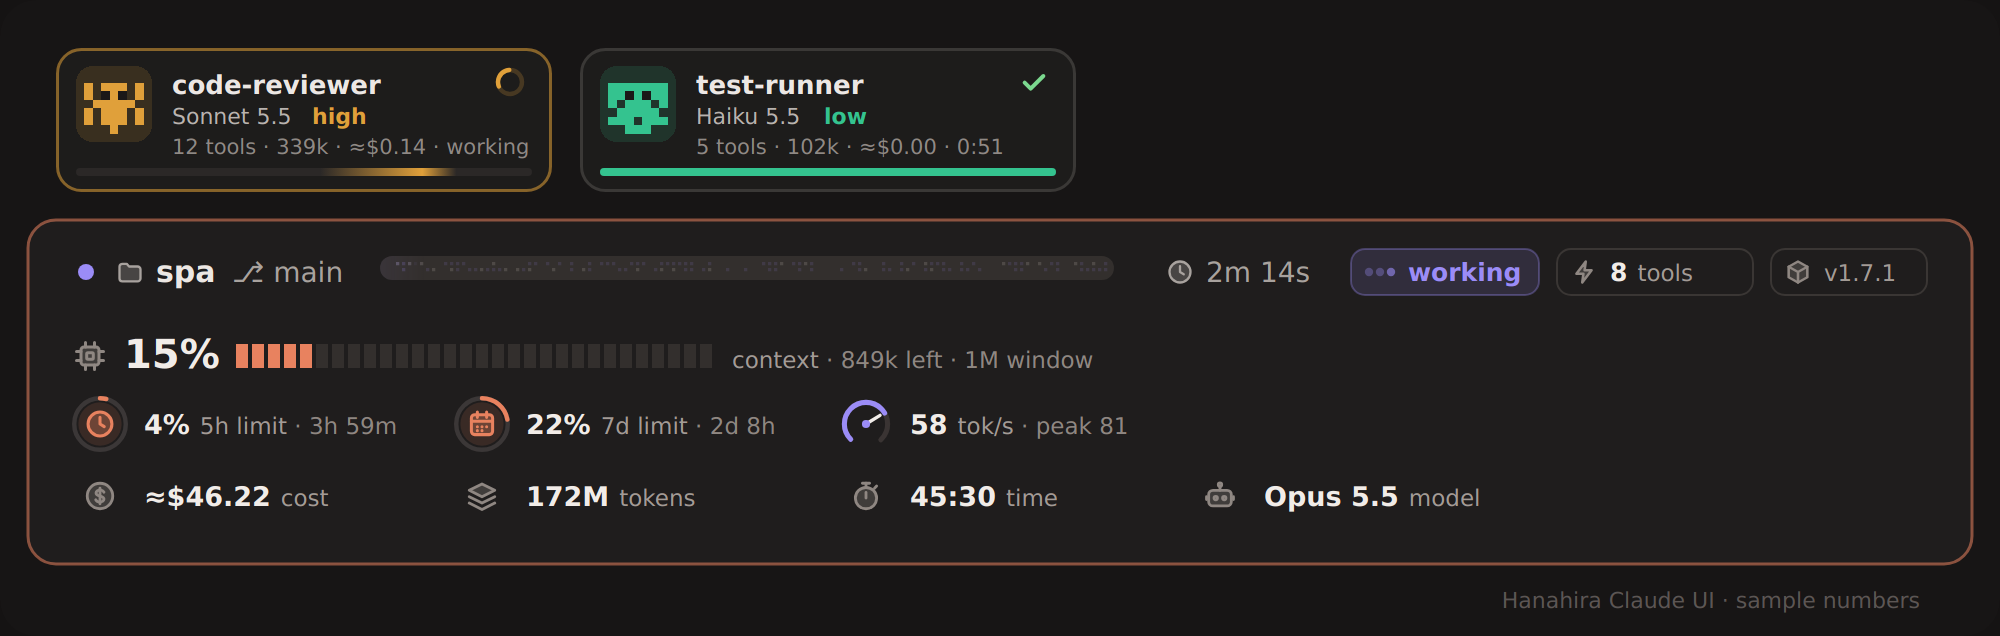
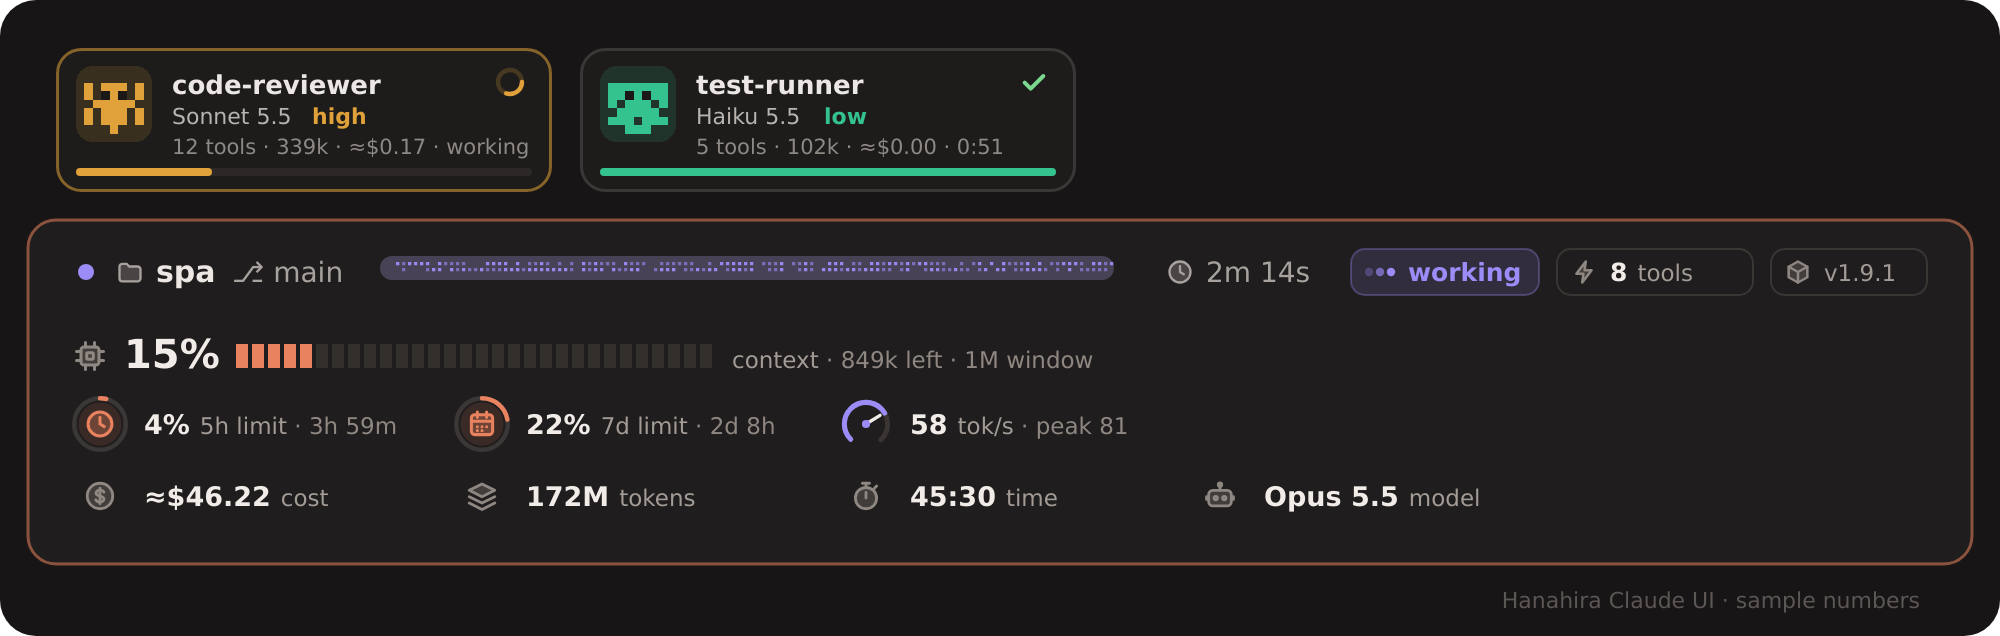
v1.9.1: fixes from a second full UI test pass
Every fix has a regression test that fails on v1.9.0 and passes now.

- README preview: docs/preview.png still showed v1.7.1. scripts/preview.ts
  now draws the PNG too, with a headless Chromium (PREVIEW_CHROME, else
  Playwright's, else one on the PATH), and writes docs/preview.png.sha256
  for the SVG it was drawn from. scripts/preview.test.ts fails while the
  PNG shows an older band or the SVG an older version.
- Transcript: a Bash description that opens with the row's verb no longer
  says it twice ("Run Run the test suite" -> "Run the test suite"); a
  delete drops a leading Delete/Remove. Only a whole word: "Runtime check"
  stays.
- Band: the session's token total adds a response through addUsage, which
  counts a missing, null or NaN usage field as 0, so one such response no
  longer turns the Tokens figure into NaN for the rest of the session.
  Agent cards use the same helper.
- Figures: fmtCost, fmtClock, fmtTokens, fmtSpeed and usd show a dash for
  NaN or Infinity; fmtReset against an unreadable clock is null; the
  context figure shows a dash and the speedometer draws empty; an agent
  card's time shows a dash. fmtDuration keeps NaN as 0s and reads a
  negative duration as 0.0 s.

diff --git a/hooks/chat.ts b/hooks/chat.ts
@@ -78,6 +78,11 @@ const short = (tool: string) => tool.replace(/^mcp__.*__/, '')
 
 type Input = Record<string, unknown>
 const str = (v: unknown) => (typeof v === 'string' ? v : '')
+/** A description that opens with the row's own verb drops it: `Run` + `Run the tests` would say it twice. */
+const unsaid = (text: string, verbs: RegExp) => {
+  const rest = text.replace(verbs, '')
+  return rest && rest !== text ? rest : text
+}
 
 /** What a tool row says: a coloured verb and the thing it acted on. */
 export const describe = (tool: string, raw: unknown, isRerun = false) => {
@@ -91,12 +96,12 @@ export const describe = (tool: string, raw: unknown, isRerun = false) => {
         return {
           kind: 'delete' as Kind,
           verb: 'Delete',
-          target: clip(str(i.description) || deleted(str(i.command)), 64),
+          target: clip(unsaid(str(i.description), /^(?:delete|remove)\s+/i) || deleted(str(i.command)), 64),
         }
       return {
         kind: 'run' as Kind,
         verb: isRerun ? 'Rerun' : 'Run',
-        target: clip(str(i.description) || str(i.command).replace(/\s+/g, ' '), 64),
+        target: clip(unsaid(str(i.description), /^(?:re)?run\s+/i) || str(i.command).replace(/\s+/g, ' '), 64),
       }
     case 'Read':
       return { kind: 'read' as Kind, verb: 'Read', target: base(path) }
@@ -188,7 +193,7 @@ export const fmtElapsed = (totalSecs: number) => {
 
 /** Tenths of a second under a minute; compared after rounding so 59.96 s reads 1m 0s, not 60.0 s. */
 export const fmtDuration = (ms: number) =>
-  Math.round(ms / 100) < 600 ? `${(ms / 1000).toFixed(1)} s` : fmtElapsed(Math.round(ms / 1000))
+  Math.round(Math.max(0, ms) / 100) < 600 ? `${(Math.max(0, ms) / 1000).toFixed(1)} s` : fmtElapsed(Math.round(ms / 1000))
 
 /**
  * A tool row's kind tile: a rounded square tinted in the kind's colour, its icon in the middle,
@@ -406,10 +411,11 @@ export const halftone = (
 }
 
 /** ≈-free money for a stat card: always two decimals, $15.62. */
-export const fmtCost = (usd: number) => `$${usd.toFixed(2)}`
+export const fmtCost = (usd: number) => (Number.isFinite(usd) ? `$${usd.toFixed(2)}` : '—')
 
 /** 0:18, 12:05, 1:02:03 (hours only when needed). */
 export const fmtClock = (ms: number) => {
+  if (Number.isNaN(ms) || ms === Infinity) return '—'
   const s = Math.max(0, Math.round(ms / 1000))
   const h = Math.floor(s / 3600)
   const m = Math.floor((s % 3600) / 60)
@@ -419,6 +425,7 @@ export const fmtClock = (ms: number) => {
 
 /** Token counts with k / M / B / T: 950, 1.5k, 196k, 1.25M, 3.4B. */
 export const fmtTokens = (n: number) => {
+  if (Number.isNaN(n) || n === Infinity) return '—'
   const units = ['', 'k', 'M', 'B', 'T']
   const shape = (v: number) => {
     const s = v < 10 ? v.toFixed(2) : v < 100 ? v.toFixed(1) : v.toFixed(0)
@@ -469,7 +476,7 @@ export const speedScale = (peak: number) =>
 
 /** A speedometer as SVG: a 270° track open at the bottom, an arc filled to `fraction`, and a needle. */
 export const speedoSvg = (fraction: number, color: string, size: number) => {
-  const f = Math.max(0, Math.min(1, fraction))
+  const f = Number.isNaN(fraction) ? 0 : Math.max(0, Math.min(1, fraction))
   const r = 17
   const c = 2 * Math.PI * r
   const sweep = 0.75 * c
@@ -492,7 +499,7 @@ export const speedoSvg = (fraction: number, color: string, size: number) => {
 }
 
 /** Speed for a tile: 42, 8.5 (one decimal under 10). */
-export const fmtSpeed = (tps: number) => (tps < 10 ? String(Math.round(tps * 10) / 10) : String(Math.round(tps)))
+export const fmtSpeed = (tps: number) => (!Number.isFinite(tps) ? '—' : tps < 10 ? String(Math.round(tps * 10) / 10) : String(Math.round(tps)))
 
 /** Rough width of a label in px at a given font size: symbols run wide, capitals a little wider. */
 const labelWidth = (text: string, fs: number) =>
@@ -678,7 +685,7 @@ export const contextSvg = (
   const esc = (s: string) => s.replace(/&/g, '&amp;').replace(/</g, '&lt;').replace(/>/g, '&gt;')
   const C = CONTEXT
   const meter = meterSvg(percent, color)
-  const value = percent === null ? '—' : `${Math.round(percent)}%`
+  const value = percent === null || !Number.isFinite(percent) ? '—' : `${Math.round(percent)}%`
   const font = 'font-family="ui-sans-serif,system-ui,sans-serif"'
   const valueX = C.icon + 8
   const valueW = labelWidth(value, C.fs)
@@ -963,6 +970,7 @@ export const fmtReset = (iso: string | undefined, now: number): string | null =>
   const at = Date.parse(iso)
   if (Number.isNaN(at)) return null
   const ms = at - now
+  if (!Number.isFinite(ms)) return null
   if (ms <= 0) return 'resetting now'
   const mins = Math.floor(ms / 60_000)
   if (mins < 1) return 'resets in <1m'

diff --git a/scripts/preview.ts b/scripts/preview.ts
@@ -1,6 +1,13 @@
 // Renders docs/preview.svg / preview.png: the compact status band drawn by the plugin's own SVG
 // builders (chat.ts, agents.ts, icons.ts) with sample numbers. Run: bun scripts/preview.ts
-import { writeFileSync } from 'node:fs'
+// The PNG (what the READMEs show) is drawn from the SVG by a headless Chromium: PREVIEW_CHROME,
+// else Playwright's, else one on the PATH. docs/preview.png.sha256 names the SVG it was drawn
+// from, so scripts/preview.test.ts fails while the PNG shows an older band.
+import { createHash } from 'node:crypto'
+import { existsSync, readdirSync, writeFileSync } from 'node:fs'
+import { homedir } from 'node:os'
+import { join } from 'node:path'
+import { fileURLToPath } from 'node:url'
 import { agentCardSvg, CARD_H, CARD_W, prettyModel } from '../hooks/agents'
 import { chipSvg, contextSvg, CONTEXT, dotSvg, fmtClock, fmtElapsed, INK, loadingSvg, speedoSvg, STAT, statSvg } from '../hooks/chat'
 import { iconGroup, iconSvg } from '../hooks/icons'
@@ -82,4 +89,35 @@ const colW = gauges.map((g, i) => Math.max(g.natural, figureArt[i]!.natural))
 })
 parts.push(`<text x="${W - 40}" y="${H - 14}" text-anchor="end" ${font} font-size="11" fill="#5c5654">Hanahira Claude UI · sample numbers</text>`)
 
-writeFileSync(new URL('../docs/preview.svg', import.meta.url), `<svg xmlns="http://www.w3.org/2000/svg" viewBox="0 0 ${W} ${H}" width="${W}" height="${H}">${parts.join('')}</svg>`)
+const svg = `<svg xmlns="http://www.w3.org/2000/svg" viewBox="0 0 ${W} ${H}" width="${W}" height="${H}">${parts.join('')}</svg>`
+const doc = (name: string) => fileURLToPath(new URL(`../docs/${name}`, import.meta.url))
+writeFileSync(doc('preview.svg'), svg)
+
+const chrome = (): string | null => {
+  if (process.env.PREVIEW_CHROME) return process.env.PREVIEW_CHROME
+  const cache = join(homedir(), '.cache', 'ms-playwright')
+  if (existsSync(cache))
+    for (const dir of readdirSync(cache).sort().reverse())
+      for (const bin of ['chrome-linux/headless_shell', 'chrome-linux/chrome'])
+        if (existsSync(join(cache, dir, bin))) return join(cache, dir, bin)
+  for (const name of ['chromium', 'chromium-browser', 'google-chrome', 'google-chrome-stable']) {
+    const found = Bun.which(name)
+    if (found) return found
+  }
+  return null
+}
+const bin = chrome()
+if (!bin) {
+  console.error('No Chromium found (set PREVIEW_CHROME): docs/preview.png was not redrawn and scripts/preview.test.ts will fail.')
+  process.exit(1)
+}
+// Twice the SVG's size, the corners left transparent.
+const shot = Bun.spawnSync([
+  bin, '--headless', '--no-sandbox', '--disable-gpu', '--hide-scrollbars', '--force-device-scale-factor=2',
+  '--default-background-color=00000000', `--window-size=${W},${H}`, `--screenshot=${doc('preview.png')}`, `file://${doc('preview.svg')}`,
+])
+if (shot.exitCode !== 0) {
+  console.error(shot.stderr.toString())
+  process.exit(1)
+}
+writeFileSync(doc('preview.png.sha256'), `${createHash('sha256').update(svg).digest('hex')}\n`)

diff --git a/hooks/register.tsx b/hooks/register.tsx
@@ -66,6 +66,21 @@ const keep = (s: Set<string>, k: string) => {
 }
 
 const NO_TOKENS: Tokens = { input: 0, output: 0, cacheRead: 0, cacheWrite: 0 }
+
+/** The API's usage fields, any of which may be missing (the cache ones are null when unused). */
+type UsageCounts = { input_tokens?: number | null; output_tokens?: number | null; cache_read_input_tokens?: number | null; cache_creation_input_tokens?: number | null }
+/** Counts plus one response's usage. A field the response leaves out adds nothing: one missing
+ *  figure would otherwise make the running total NaN for the rest of the session. */
+export const addUsage = <T extends Partial<Tokens>>(t: T, u: UsageCounts | null | undefined) => {
+  const n = (v: number | null | undefined) => (typeof v === 'number' && Number.isFinite(v) ? v : 0)
+  return {
+    ...t,
+    input: n(t.input) + n(u?.input_tokens),
+    output: n(t.output) + n(u?.output_tokens),
+    cacheRead: n(t.cacheRead) + n(u?.cache_read_input_tokens),
+    cacheWrite: n(t.cacheWrite) + n(u?.cache_creation_input_tokens),
+  }
+}
 const tokens = atom({ plugin: 'hanahira-claude-ui', key: 'tokens' } as const, NO_TOKENS)
 
 const EMPTY: Stats = { tools: 0, byTool: {}, files: [], last: null }
@@ -664,12 +679,7 @@ export const register: Register = on => {
     const effort = typeof sent === 'number' ? `budget ${fmtTokens(sent)}` : sent
     const aid = (e as unknown as { agentId?: string }).agentId
     if (u) {
-      await update($, tokens, t => ({
-        input: (t.input ?? 0) + u.input_tokens,
-        output: (t.output ?? 0) + u.output_tokens,
-        cacheRead: (t.cacheRead ?? 0) + u.cache_read_input_tokens,
-        cacheWrite: (t.cacheWrite ?? 0) + u.cache_creation_input_tokens,
-      }))
+      await update($, tokens, t => addUsage(t, u))
     }
     // Speed of the main thread only: subagents run beside it and would blur the figure.
     const tps = !aid && u ? tokensPerSec(u.output_tokens, (await $.clock.now()) - t0) : null
@@ -682,14 +692,10 @@ export const register: Register = on => {
           a.id !== aid
             ? a
             : {
-                ...a,
+                ...addUsage(a, u),
                 model: u?.model || a.model,
                 // The engine's word wins over what was asked: no effort sent means none applies.
                 effort: effort ?? null,
-                input: a.input + (u?.input_tokens ?? 0),
-                output: a.output + (u?.output_tokens ?? 0),
-                cacheRead: a.cacheRead + (u?.cache_read_input_tokens ?? 0),
-                cacheWrite: a.cacheWrite + (u?.cache_creation_input_tokens ?? 0),
               },
         ),
       )

diff --git a/hooks/chat.test.ts b/hooks/chat.test.ts
@@ -30,6 +30,18 @@ describe('describe', () => {
     expect(describeCall('Bash', { command: 'rm -f -- -weird b' }).target).toBe('-weird b')
   })
 
+  test('a description that opens with the row\'s verb does not say it twice', () => {
+    expect(describeCall('Bash', { command: 'bun test', description: 'Run the test suite' }).target).toBe('the test suite')
+    expect(describeCall('Bash', { command: 'bun test', description: 'run tests' }, true)).toEqual({ kind: 'run', verb: 'Rerun', target: 'tests' })
+    expect(describeCall('Bash', { command: 'bun test', description: 'Rerun the suite' }, true).target).toBe('the suite')
+    expect(describeCall('Bash', { command: 'rm a', description: 'Remove old builds' })).toEqual({ kind: 'delete', verb: 'Delete', target: 'old builds' })
+    expect(describeCall('Bash', { command: 'rm a', description: 'Delete a' }).target).toBe('a')
+    // Only the verb as a word: a description that is the verb alone, or starts with a longer word, stays.
+    expect(describeCall('Bash', { command: 'x', description: 'Run' }).target).toBe('Run')
+    expect(describeCall('Bash', { command: 'x', description: 'Runtime check' }).target).toBe('Runtime check')
+    expect(describeCall('Bash', { command: 'x', description: 'List files' }).target).toBe('List files')
+  })
+
   test('mcp tools fall back to their short name', () => {
     expect(describeCall('mcp__srv__do_thing', {}).target).toBe('do_thing')
   })
@@ -228,6 +240,31 @@ describe('fmtTokens', () => {
   test('zero and negatives', () => {
     expect(fmtTokens(0)).toBe('0')
     expect(fmtTokens(-4)).toBe('0')
+  })
+})
+
+describe('a figure that is no reading', () => {
+  test('shows a dash, never NaN or Infinity', () => {
+    for (const v of [NaN, Infinity]) {
+      expect(fmtCost(v)).toBe('—')
+      expect(fmtClock(v)).toBe('—')
+      expect(fmtTokens(v)).toBe('—')
+      expect(fmtSpeed(v)).toBe('—')
+      expect(fmtDuration(v)).toBe('0s')
+    }
+    expect(fmtSpeed(-Infinity)).toBe('—')
+    expect(fmtDuration(-500)).toBe('0.0 s')
+    expect(contextSvg(NaN, '#fff').svg).toContain('>—<')
+  })
+
+  test('a reset time against an unreadable clock is no reading at all', () => {
+    expect(fmtReset('2026-10-27T10:00:00Z', NaN)).toBeNull()
+    expect(fmtReset('2026-10-27T10:00:00Z', -Infinity)).toBeNull()
+  })
+
+  test('pictures built on one carry no NaN', () => {
+    expect(speedoSvg(NaN, '#fff', 20)).not.toContain('NaN')
+    expect(contextSvg(NaN, '#fff', { left: 'x' }).svg).not.toContain('NaN')
   })
 })
 

diff --git a/hooks/register.test.ts b/hooks/register.test.ts
@@ -1,6 +1,6 @@
 import { describe, expect, test } from 'claude-code/testing'
 
-import { dangerous, asList, clip, glyph, limitLabel, shortLimitLabel, contextLeft, limitLeft, meter, ringSvg, tone, top } from './register'
+import { addUsage, dangerous, asList, clip, glyph, limitLabel, shortLimitLabel, contextLeft, limitLeft, meter, ringSvg, tone, top } from './register'
 
 
 describe('guard pattern', () => {
@@ -155,5 +155,23 @@ describe('asList', () => {
 
   test('turns anything else a stored value might be into an empty list', () => {
     for (const bad of [undefined, null, 0, 5, 'x', {}, { length: 2 }, true]) expect(asList(bad)).toEqual([])
+  })
+})
+
+describe('addUsage', () => {
+  test('adds a response to the running counts', () => {
+    const u = { input_tokens: 10, output_tokens: 20, cache_read_input_tokens: 30, cache_creation_input_tokens: 40 }
+    expect(addUsage({ input: 1, output: 2, cacheRead: 3, cacheWrite: 4 }, u)).toEqual({ input: 11, output: 22, cacheRead: 33, cacheWrite: 44 })
+  })
+
+  test('a field the response leaves out adds nothing, so the total never turns NaN', () => {
+    const t = addUsage({ input: 5, output: 5, cacheRead: 5, cacheWrite: 5 }, { input_tokens: 1, output_tokens: 2 })
+    expect(t).toEqual({ input: 6, output: 7, cacheRead: 5, cacheWrite: 5 })
+    expect(addUsage({}, { input_tokens: 1, output_tokens: 1, cache_read_input_tokens: null, cache_creation_input_tokens: NaN })).toEqual({ input: 1, output: 1, cacheRead: 0, cacheWrite: 0 })
+    expect(addUsage({ input: 3 }, null)).toEqual({ input: 3, output: 0, cacheRead: 0, cacheWrite: 0 })
+  })
+
+  test('keeps the other fields of what it adds to', () => {
+    expect(addUsage({ id: 'a1', input: 0, output: 0, cacheRead: 0, cacheWrite: 0 }, { input_tokens: 2 })).toEqual({ id: 'a1', input: 2, output: 0, cacheRead: 0, cacheWrite: 0 })
   })
 })

diff --git a/scripts/preview-chat.ts b/scripts/preview-chat.ts
@@ -4,7 +4,7 @@
 // With an output path as the argument, it writes the rows mid-finish instead (every row's
 // finish begins at time 0), for a browser to step through the motion.
 import { writeFileSync } from 'node:fs'
-import { badgeSvg, diffRows, fmtDuration, INK, KIND_COLOR, KIND_ICON, PILL, pillSvg, ROW, statusPill, taskSummary } from '../hooks/chat'
+import { badgeSvg, describe, diffRows, fmtDuration, INK, KIND_COLOR, KIND_ICON, PILL, pillSvg, ROW, statusPill, taskSummary } from '../hooks/chat'
 import type { Kind, PillIcon } from '../hooks/chat'
 
 const out = process.argv[2]
@@ -58,7 +58,7 @@ parts.push(`<rect x="${X}" y="${y}" width="${W - 2 * X}" height="40" rx="10" fil
 parts.push(`<text x="${X + 16}" y="${y + 25}" ${font} font-size="14" fill="${INK.value}">${esc(prompt)}</text>`)
 y += 56
 
-row('run', 'Run', 'Run the test suite', [done(statusPill('Bash', { ...idle, output: { stdout: '159 pass' } }))], 4300)
+row('run', 'Run', describe('Bash', { command: 'bun test', description: 'Run the test suite' }).target, [done(statusPill('Bash', { ...idle, output: { stdout: '159 pass' } }))], 4300)
 row('read', 'Read', 'register.tsx', [done(statusPill('Read', { ...idle, output: { file: { numLines: 1386 } } }))], 40, { mono: true })
 
 // An Edit: its counts as pills, its lines under it.

diff --git a/scripts/preview.test.ts b/scripts/preview.test.ts
@@ -1,0 +1,15 @@
+// The READMEs show docs/preview.png, a picture drawn from docs/preview.svg by
+// scripts/preview.ts. A PNG cannot be read back, so the script records the SVG it was drawn
+// from (docs/preview.png.sha256): a band redrawn without a new PNG fails here, not on GitHub.
+import { expect, test } from 'bun:test'
+import { createHash } from 'node:crypto'
+import { readFileSync } from 'node:fs'
+import { VERSION } from '../hooks/version'
+
+const doc = (name: string) => readFileSync(new URL(`../docs/${name}`, import.meta.url))
+
+test('the preview shows this version, and the PNG was drawn from that SVG', () => {
+  const svg = doc('preview.svg')
+  expect(svg.toString()).toContain(`v${VERSION}`)
+  expect(doc('preview.png.sha256').toString().trim()).toBe(createHash('sha256').update(svg).digest('hex'))
+})

diff --git a/hooks/agents.ts b/hooks/agents.ts
@@ -94,7 +94,7 @@ export const totalTokens = (c: Counts) => c.input + c.output + c.cacheRead + c.c
 /** Counts a figure can be built on: a NaN or a negative count is no reading at all. */
 const countsKnown = (c: Counts) => [c.input, c.output, c.cacheRead, c.cacheWrite].every(v => Number.isFinite(v) && v >= 0)
 
-export const usd = (v: number | null) => (v === null ? '—' : v < 0.005 ? '$0.00' : `$${v.toFixed(2)}`)
+export const usd = (v: number | null) => (v === null || !Number.isFinite(v) ? '—' : v < 0.005 ? '$0.00' : `$${v.toFixed(2)}`)
 
 /** What the strip lists: running agents first, then the ones that finished lately; at most `max`. */
 export const visibleAgents = (agents: Agent[], now: number, opts: { max?: number; keepMs?: number } = {}) => {

diff --git a/hooks/agents.test.ts b/hooks/agents.test.ts
@@ -182,6 +182,15 @@ describe('agent card', () => {
     expect(agentUsd('claude-opus-5-5', mk({ output: -5 }))).toBeNull()
   })
 
+  test('a time that is no reading shows a dash, not NaN', () => {
+    const line = agentStats(mk({ status: 'done', startedAt: NaN, endedAt: 5000 }))
+    expect(line.endsWith(' · —')).toBe(true)
+    expect(line).not.toContain('NaN')
+    expect(agentCardSvg(mk({ status: 'done', startedAt: 0, endedAt: NaN })).svg).not.toContain('NaN')
+    expect(usd(NaN)).toBe('—')
+    expect(usd(Infinity)).toBe('—')
+  })
+
   test('a barless card leaves the bar out', () => {
     const svg = agentCardSvg(mk({ startedAt: 0 }), { barless: true })
     expect(svg.height).toBe(CARD_H - BAR_ROOM)

diff --git a/hooks/version.ts b/hooks/version.ts
@@ -1,3 +1,3 @@
 // Mirrors "version" in .claude-plugin/plugin.json. A hooks module may only import code
 // files, so it cannot read the JSON; version.test.ts keeps the two equal.
-export const VERSION = '1.9.0'
+export const VERSION = '1.9.1'
